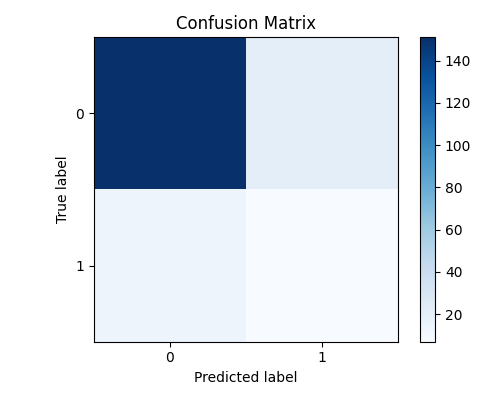
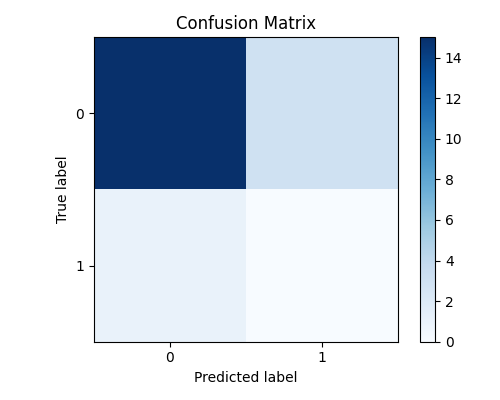
Fix augmentation

diff --git a/dataset/data_processing.py b/dataset/data_processing.py
@@ -7,6 +7,8 @@ from PIL import Image
 import h5py
 from tqdm import tqdm
 from utils import ImageFeatureExtractor
+from utils.augmentation import Augmentation
+
 
 class ImageDatasetGenerator:
     def __init__(
@@ -68,26 +70,45 @@ class ImageDatasetGenerator:
             images.append(features)
         return np.stack(images)
 
+    def _load_images_raw(self, paths: List[str], base_dir: Optional[str] = None) -> np.ndarray:
+        images = []
+        for path in tqdm(paths, desc="[INFO] Loading raw images"):
+            img_path = os.path.join(base_dir, path) if base_dir else path
+            img = Image.open(img_path).convert('L') # Convert to grayscale
+            images.append(np.array(img))
+        return np.stack(images)
+
     def generate_hdf5(self, output_path: str, create_hdf5: bool, train_img_dir=None, val_img_dir=None, test_img_dir=None):
-        # Use the provided directory or default to the data path attributes
         train_img_dir = train_img_dir if train_img_dir is not None else self.train_data_path
         val_img_dir = val_img_dir if val_img_dir is not None else self.validation_data_path
         test_img_dir = test_img_dir if test_img_dir is not None else self.test_data_path
 
-        train_data = self._load_images_processImages(self.train_df['image'].tolist(), train_img_dir)
+        
+        X_train_raw = self._load_images_raw(self.train_df['image'].tolist(), train_img_dir)
+        y_train = np.array(self.train_df['MEL'].tolist())
+
+        augmenter = Augmentation(random_state=42)
+        X_train_bal, y_train_bal = augmenter.balance_oversample(X_train_raw, y_train)
+
+        extractor = ImageFeatureExtractor(self.height_width)
+        extraction_technique = None if not self.extraction_technique else self.extraction_technique[0].lower()
+        train_data = []
+        for img in tqdm(X_train_bal, desc="[INFO] Extracting features from balanced train set"):
+            features = extractor.extract(Image.fromarray(img), extraction_technique)
+            train_data.append(features)
+        train_data = np.stack(train_data)
+
         val_data = self._load_images_processImages(self.validation_df['image'].tolist(), val_img_dir)
         test_data = self._load_images_processImages(self.test_df['image'].tolist(), test_img_dir)
-        
-        if not create_hdf5:
-            train_labels = np.array(self.train_df['MEL'].tolist())
-            val_labels = np.array(self.validation_df['MEL'].tolist())
-            test_labels = np.array(self.test_df['MEL'].tolist())
+        val_labels = np.array(self.validation_df['MEL'].tolist())
+        test_labels = np.array(self.test_df['MEL'].tolist())
 
-            return train_data, val_data, test_data, train_labels, val_labels, test_labels 
-           
+        if not create_hdf5:
+            return train_data, val_data, test_data, y_train_bal, val_labels, test_labels
+
         with h5py.File(output_path, 'w') as f:
             f.create_dataset('train_data', data=train_data, compression="gzip")
-            f.create_dataset('train_label', data=np.array(self.train_df['MEL'].tolist()), compression="gzip")
+            f.create_dataset('train_label', data=y_train_bal, compression="gzip")
             f.create_dataset('validation_data', data=val_data, compression="gzip")
             f.create_dataset('validation_label', data=np.array(self.validation_df['MEL'].tolist()), compression="gzip")
             f.create_dataset('test_data', data=test_data, compression="gzip")

diff --git a/main.py b/main.py
@@ -3,7 +3,7 @@ from utils import Logger
 from utils import checks as ch
 from model import RandomForestModel, SHVotingEnsemble, KNNModel, SVMModel 
 from utils import flatten_features, process, create_generator, train_with_data
-from utils import Augmentation as Aug
+
 
 def main(args):
     log = Logger(name="main", level=10)
@@ -62,20 +62,12 @@ def main(args):
 #---------------------------------------------------------------------------------------------#
     # Classification Model
     if ext_tech != "best_feature":
-        log.info("Starting Random Forest model training...")
         try:
             data = generator.load_hdf5(output_path)
-            X_train = data['train_data']
+            X_train = flatten_features(data['train_data'])
             y_train = data['train_label']
-            X_val = data['validation_data']
+            X_val = flatten_features(data['validation_data'])
             y_val = data['validation_label']
-
-            augmenter = Aug(random_state=42)
-            X_train, y_train = augmenter.balance_oversample(X_train, y_train)
-            
-            X_train = flatten_features(X_train)
-            X_val = flatten_features(X_val)
-
             X_test = data['test_data']
             X_test = flatten_features(data['test_data'])
             y_test = data['test_label']
@@ -84,7 +76,7 @@ def main(args):
             if model[0].lower() == "rf" or model[0].lower() == "all":
                 log.info("Training Random Forest model...")
                 rf_model = RandomForestModel()
-                rf_model.fit(X_train, y_train, X_val, y_val, use_optuna=True, n_trials=100)
+                rf_model.fit(X_train, y_train, X_val, y_val, use_optuna=True, n_trials=1)
                 rf_model.score(X_test, y_test)
                 log.info("Random Forest model evaluation completed successfully.")
 

diff --git a/utils/process_train.py b/utils/process_train.py
@@ -1,6 +1,5 @@
 from dataset import ImageDatasetGenerator
 from model import  RandomForestModel, KNNModel, SVMModel
-from utils.augmentation import Augmentation as Aug
 
 def create_generator(args, extention, train_label_path, train_percent, validation_label_path, validation_percent,
                     test_label_path, test_percent, height_width, extraction_technique):
@@ -31,9 +30,6 @@ def process(generator, output_path, create_hdf5):
     X_train, X_val, X_test, y_train, y_val, y_test = generator.generate_hdf5(
         output_path=output_path, create_hdf5=create_hdf5
     )
-
-    augmenter = Aug(random_state=42)
-    X_train, y_train = augmenter.balance_oversample(X_train, y_train)
 
     X_train = flatten_features(X_train)
     X_val = flatten_features(X_val)
